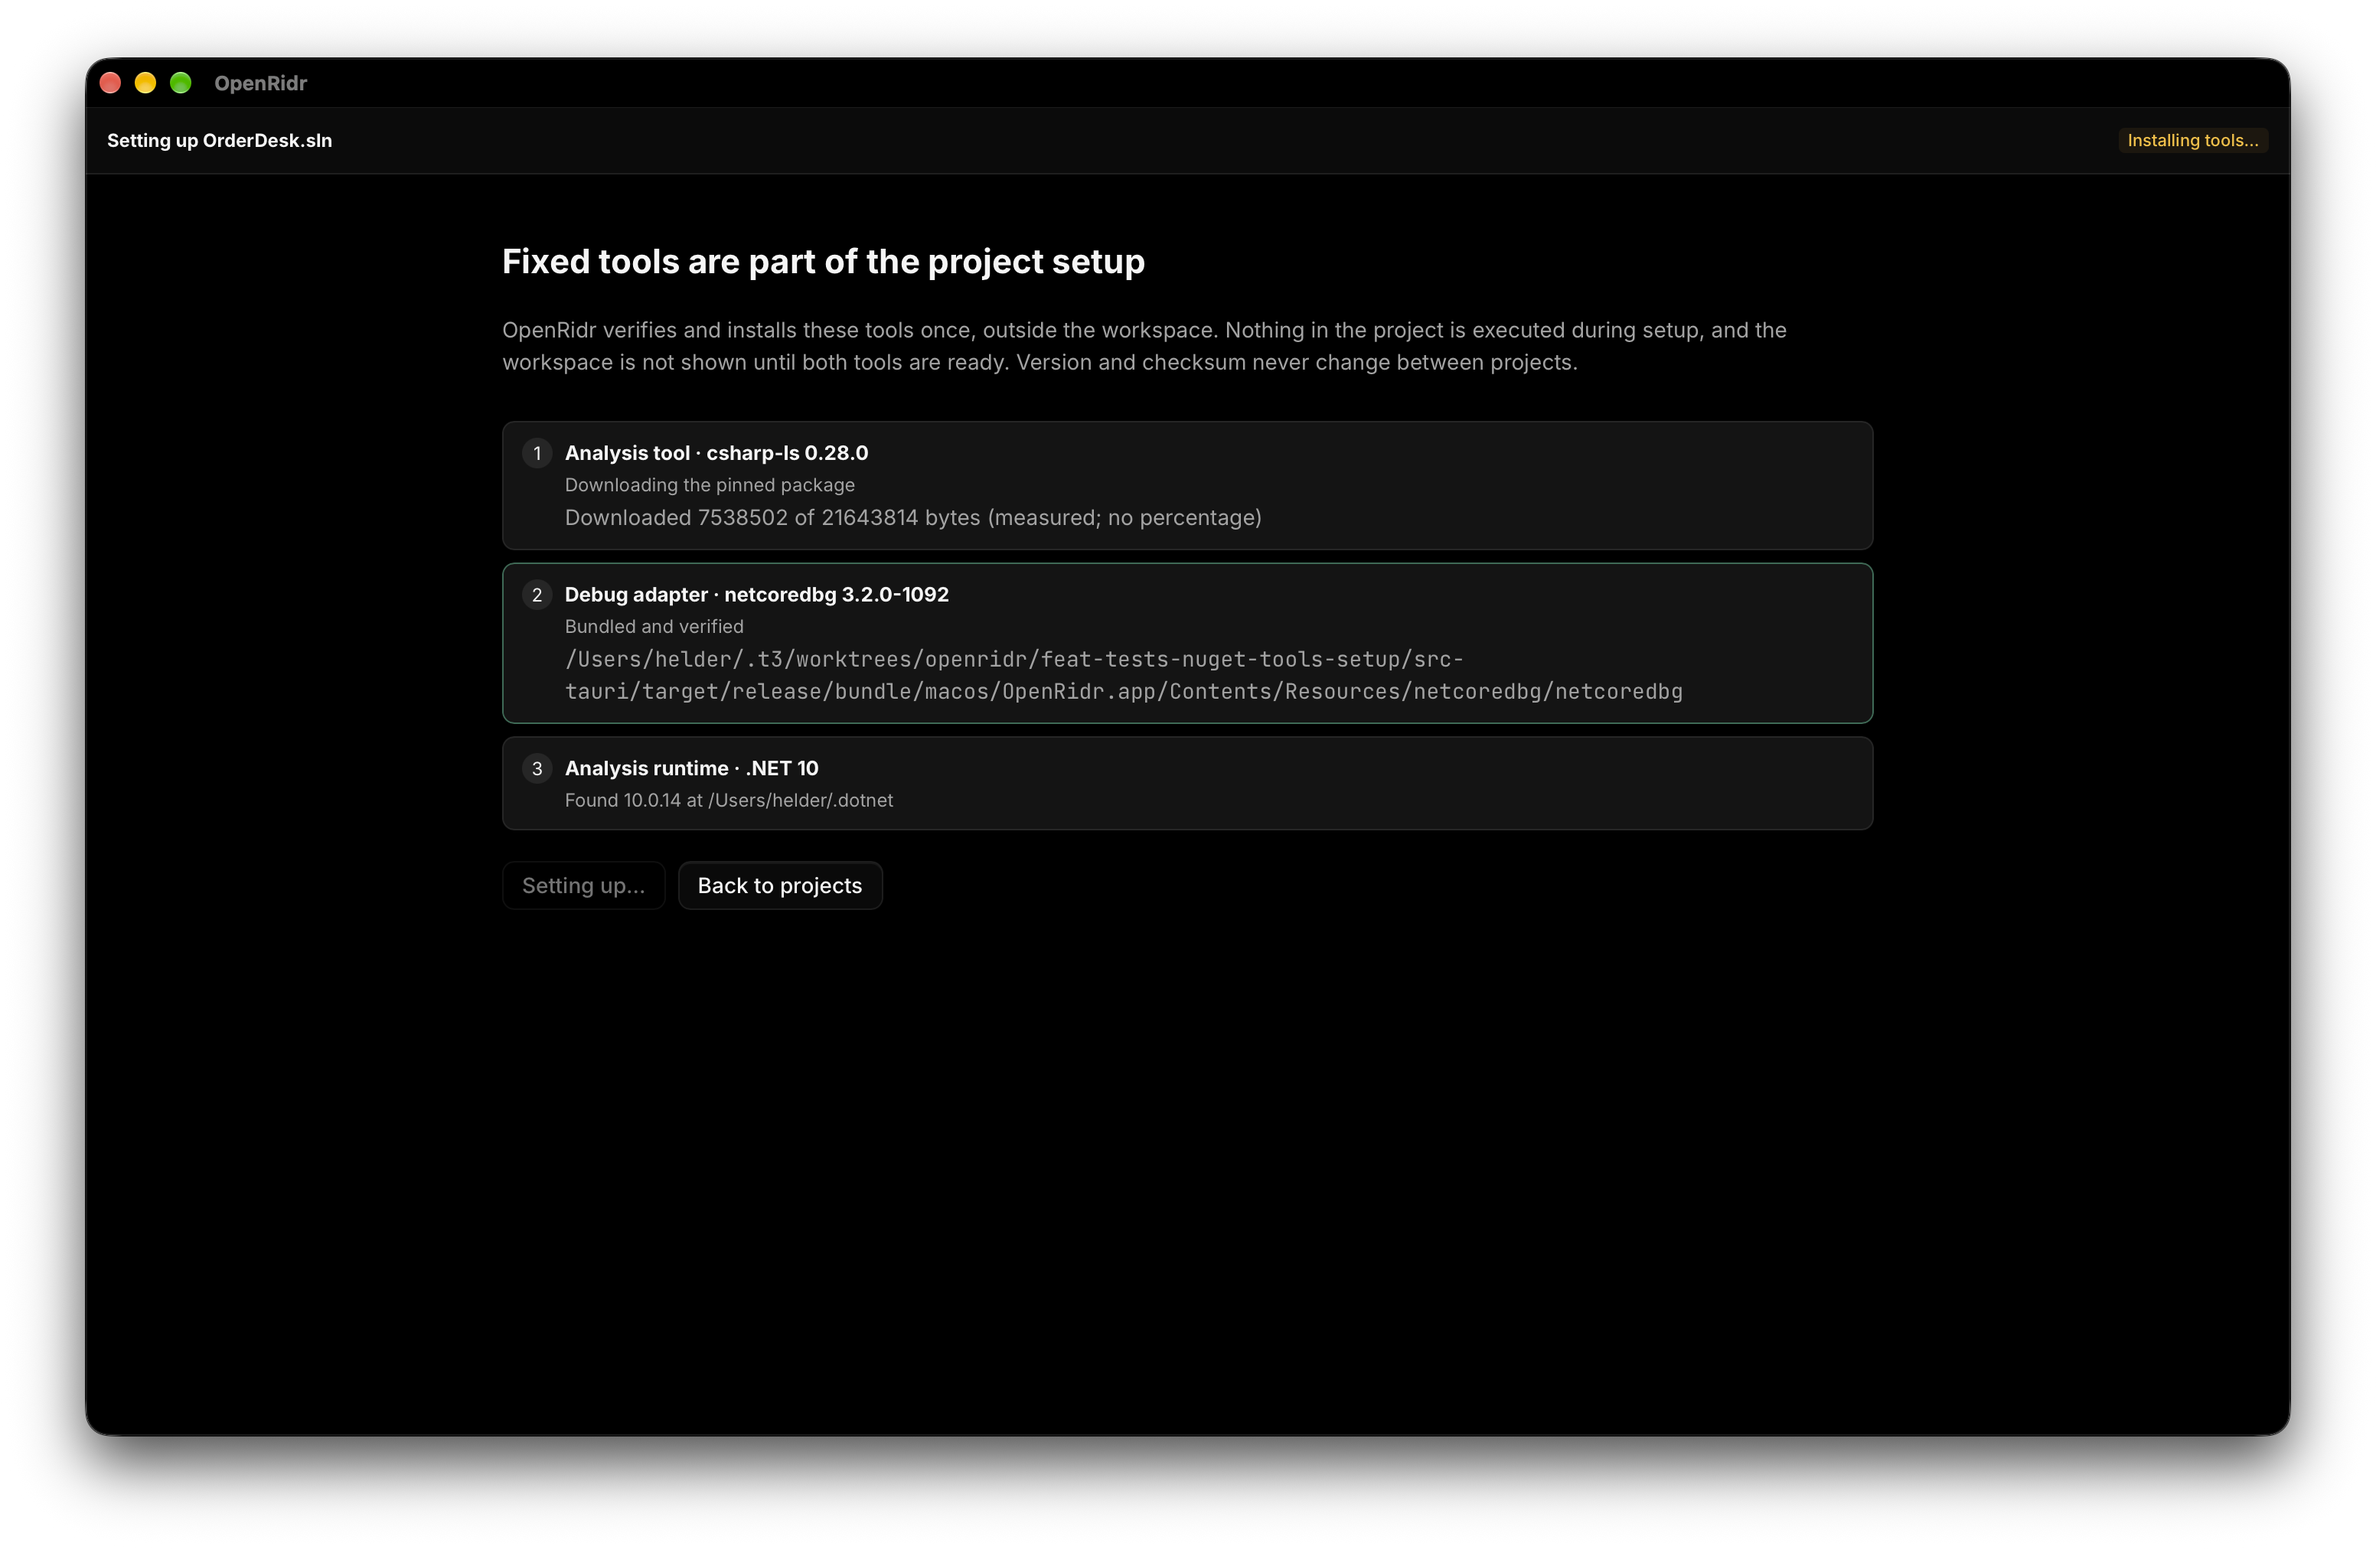
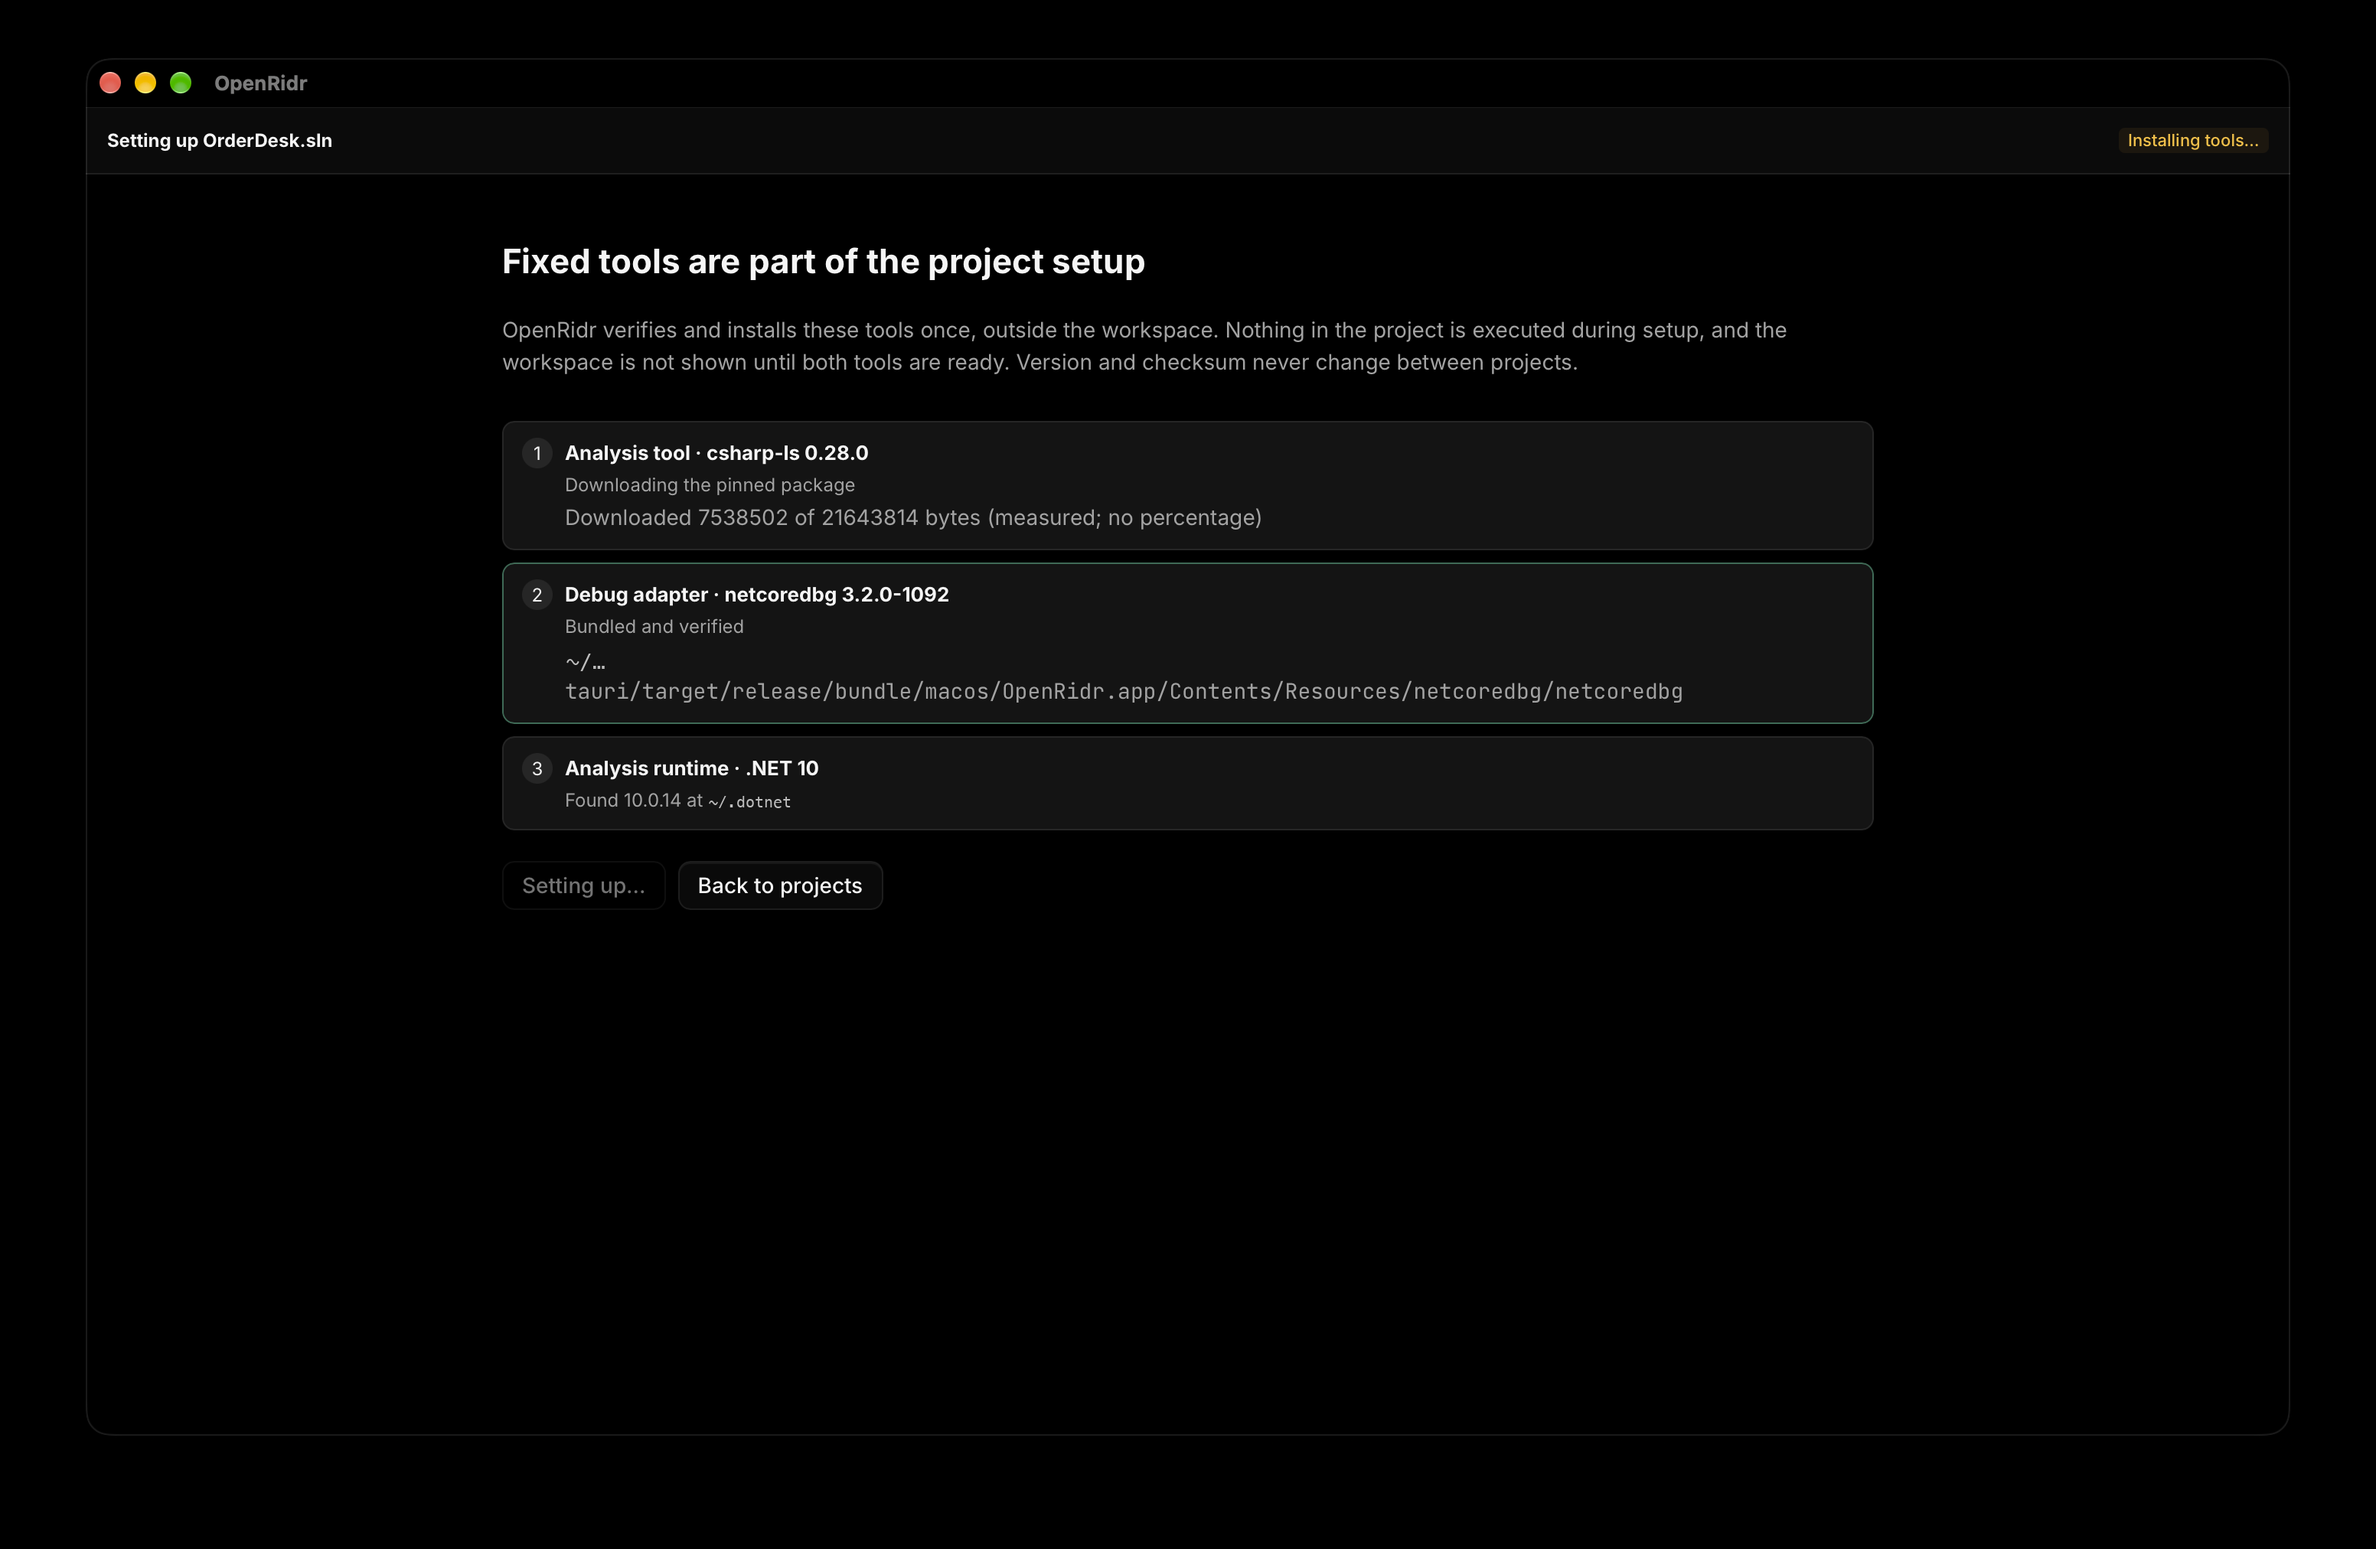
docs(evidence): redact local home paths in screenshots

diff --git a/docs/evidence/tests-nuget-tools-setup/desktop.md b/docs/evidence/tests-nuget-tools-setup/desktop.md
@@ -3,7 +3,7 @@
 App real: `src-tauri/target/release/bundle/macos/OpenRidr.app` (build desta branch, assinatura ad-hoc),
 executado com `OPENRIDR_HOME=/tmp/openridr-desktop-home` e uma cópia de `fixtures/OrderDesk` em
 `/tmp/openridr-desktop-work/OrderDesk`. Nada foi instalado no sistema; o csharp-ls foi baixado para
-o home isolado. Capturas em `docs/evidence/tests-nuget-tools-setup/`.
+o home isolado. Capturas em `docs/evidence/tests-nuget-tools-setup/`. O diretório home foi substituído por `~` nas imagens para não publicar caminho pessoal.
 
 | Captura | O que prova |
 |---|---|
